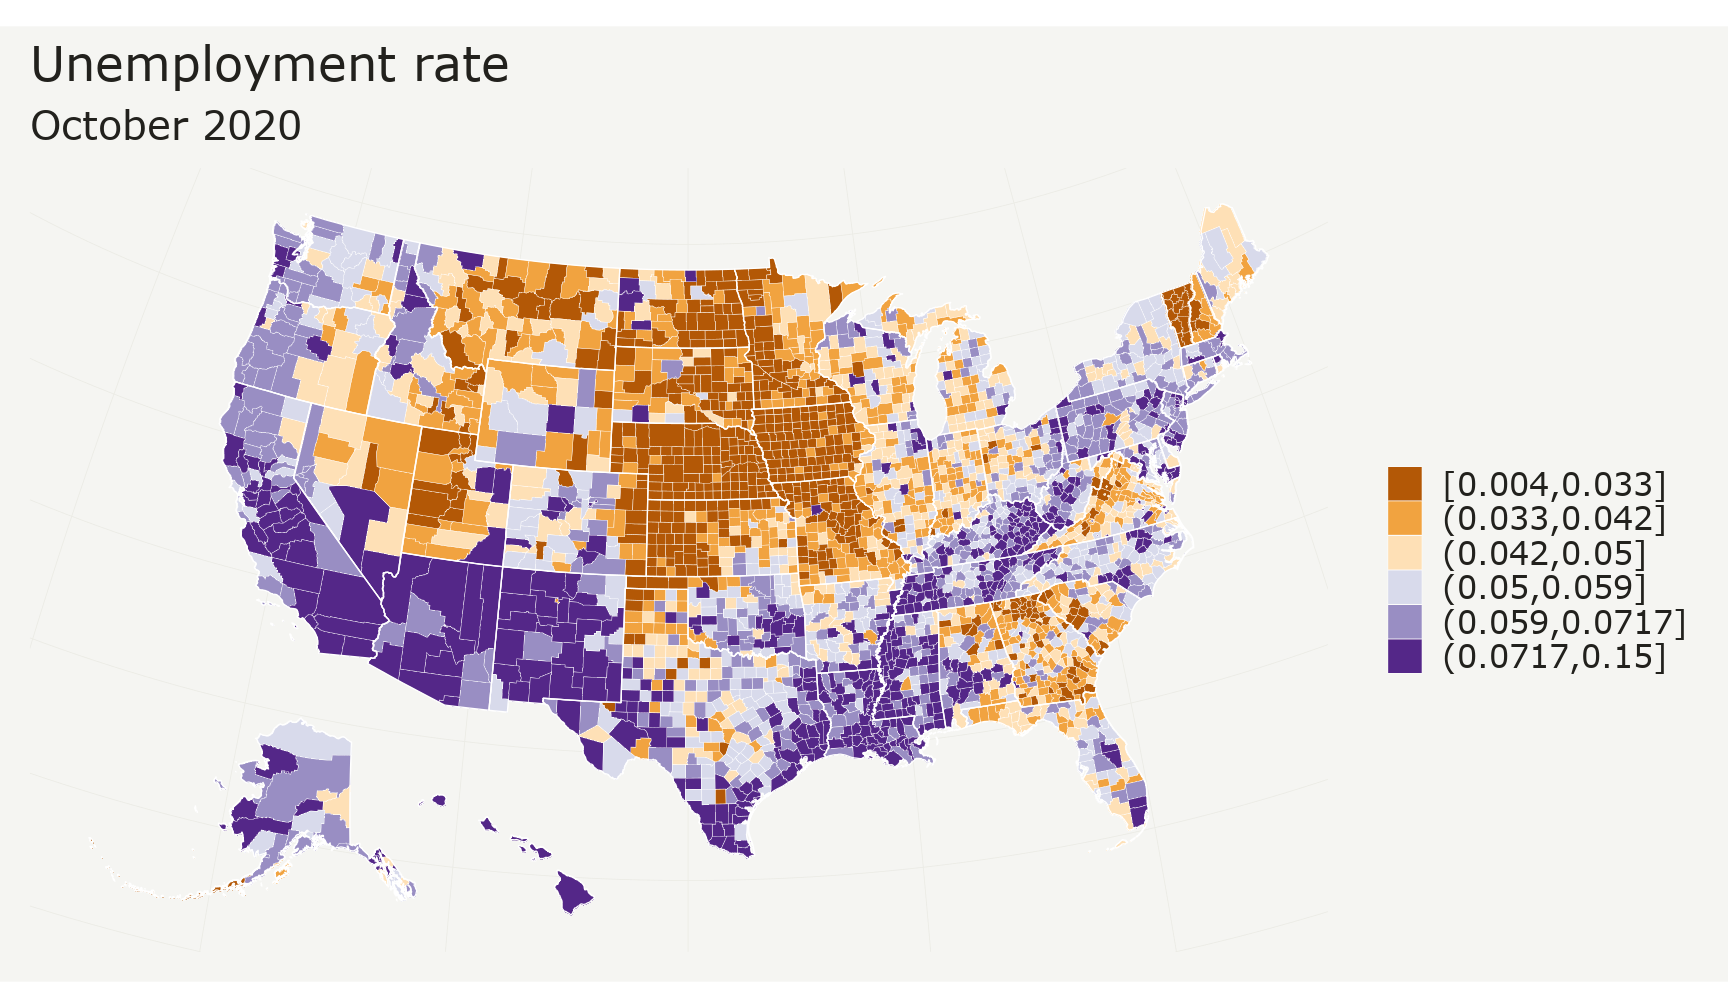
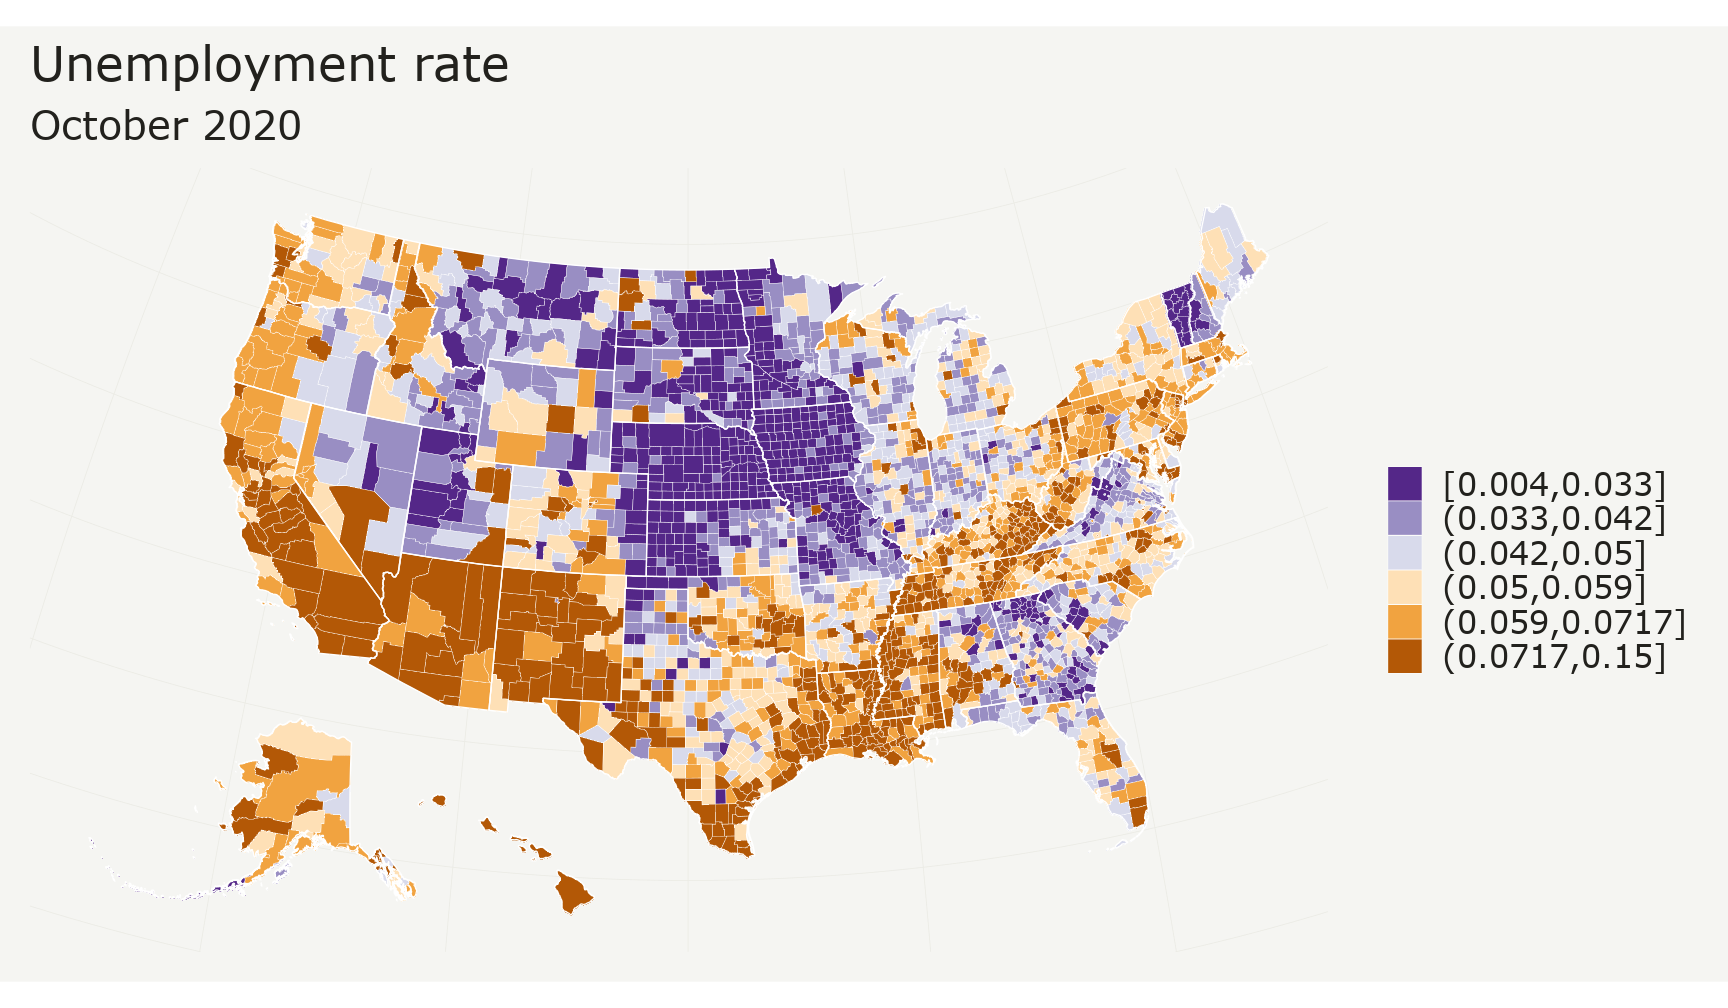
Fix palette direction

diff --git a/slides/index.html b/slides/index.html
@@ -432,7 +432,7 @@ class: middle, center, inverse
 
 # Exercise on implementing palettes
 
-<div class="countdown" id="timer_61819c36" style="right:0;bottom:0;" data-warnwhen="0">
+<div class="countdown" id="timer_61819f28" style="right:0;bottom:0;" data-warnwhen="0">
 <code class="countdown-time"><span class="countdown-digits minutes">08</span><span class="countdown-digits colon">:</span><span class="countdown-digits seconds">00</span></code>
 </div>
 
@@ -539,7 +539,7 @@ class: center, middle, inverse
 
 # Exercise on diverging palettes
 
-<div class="countdown" id="timer_61819bde" style="right:0;bottom:0;" data-warnwhen="0">
+<div class="countdown" id="timer_61819f20" style="right:0;bottom:0;" data-warnwhen="0">
 <code class="countdown-time"><span class="countdown-digits minutes">08</span><span class="countdown-digits colon">:</span><span class="countdown-digits seconds">00</span></code>
 </div>
 
@@ -816,7 +816,7 @@ class: middle, center, inverse
 
 # Exercises on interpolating continuous variables
 
-<div class="countdown" id="timer_61819df8" style="right:0;bottom:0;" data-warnwhen="0">
+<div class="countdown" id="timer_61819e90" style="right:0;bottom:0;" data-warnwhen="0">
 <code class="countdown-time"><span class="countdown-digits minutes">07</span><span class="countdown-digits colon">:</span><span class="countdown-digits seconds">00</span></code>
 </div>
     </textarea>
